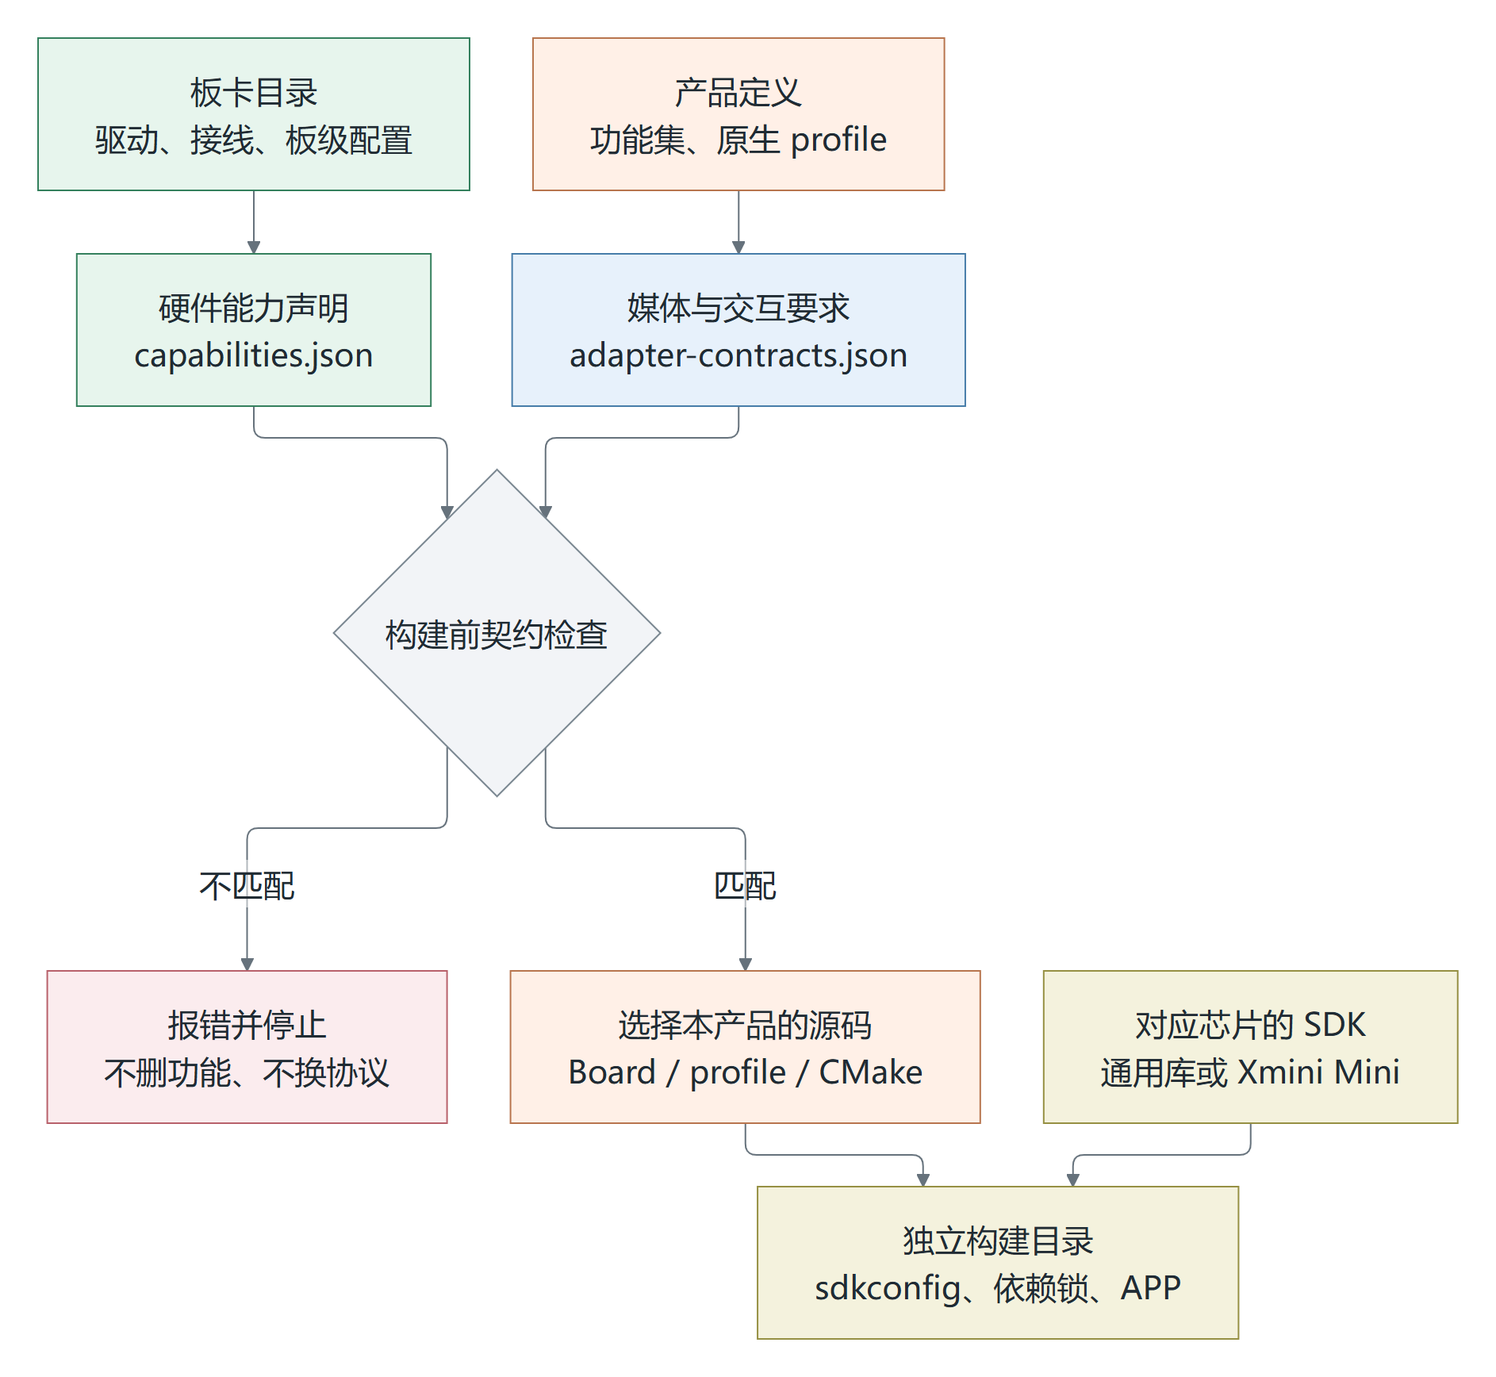
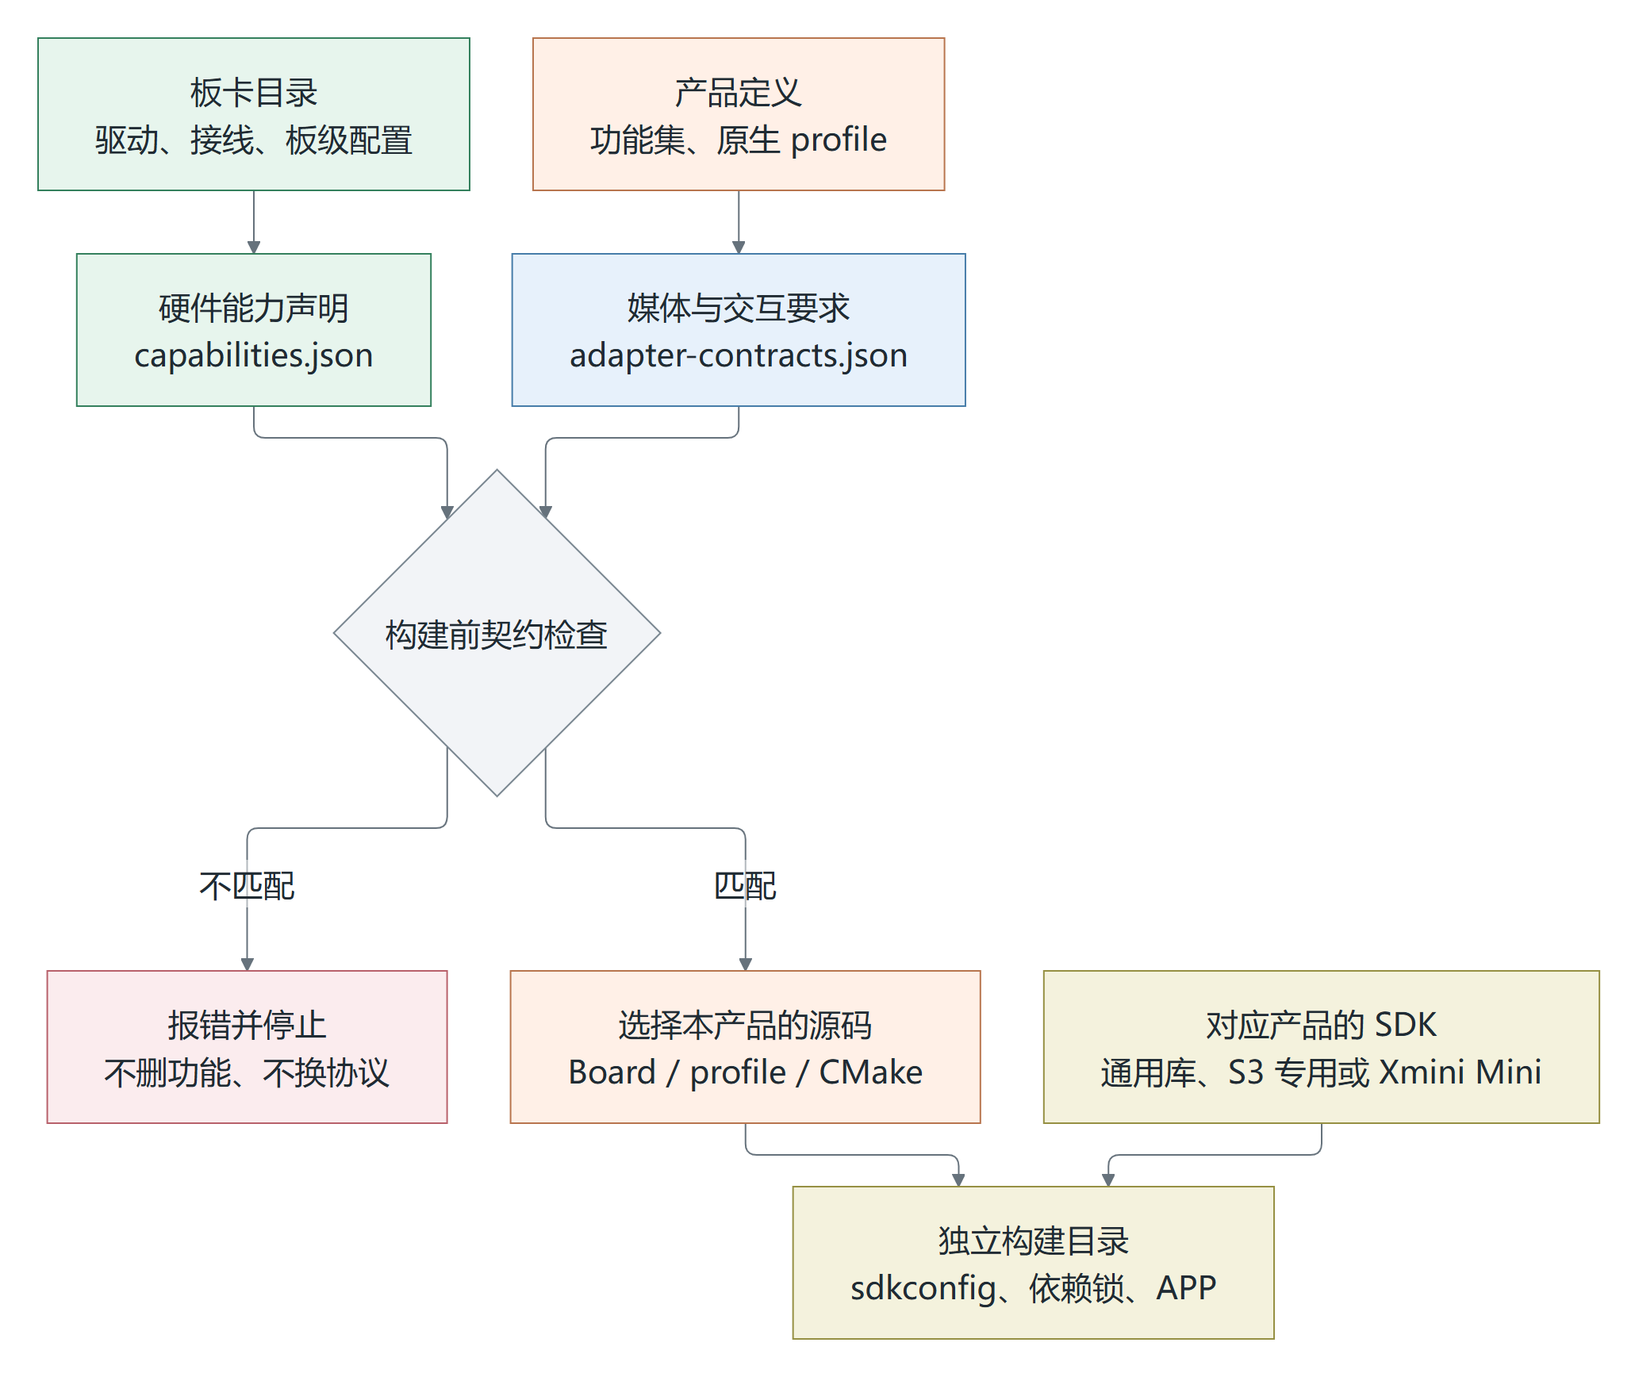
docs: improve multi-chip onboarding and board guidance

diff --git a/docs/第一次使用.md b/docs/第一次使用.md
@@ -1,0 +1,216 @@
+# 第一次使用小钛
+
+[返回首页](../README.md) · [选板](../README.md#选板) · [开发文档](架构开发指南.md)
+
+本指南配合 `codex/multi-chip-v2` 多芯片开发分支。使用公开固件时，还要核对该固件随包的板型和操作说明，不混用两个版本的配置、文件或验收结论。
+
+先完成一次对话或通话。暂时不用读代码，也不用记住 SDK、分区表这些名字。
+
+已经装好小钛的设备，可以直接从[连接 Wi-Fi](#4-连接-wi-fi)开始；已经联网并绑定，就去[试一个功能](#6-试一个功能)。
+
+| 现在到哪一步了 | 接着做什么 |
+| --- | --- |
+| 还没选好板子或固件 | [认准板子](#1-认准板子)，找到完全匹配的固件和说明 |
+| 设备已装好小钛，正在等配网 | [连接 Wi-Fi](#4-连接-wi-fi)，再[绑定设备](#5-绑定设备) |
+| 已绑定，但还没试过声音 | [试一个功能](#6-试一个功能)，分别听两个方向的声音 |
+| 某一步没有成功 | 看[排查表](#卡在哪一步就先查哪一步)，先保留现象，不急着重刷 |
+
+## 1. 认准板子
+
+查看板背面、包装或购买记录，确认完整型号、板卡版本和屏幕型号。只知道“ESP32-S3”还不够，它是芯片名称，不是完整板型。拍一张正反面照片留作核对，比凭外观猜更可靠。
+
+本统一开发版适配的六块板见[首页选板表](../README.md#选板)。特别留意：
+
+- 微雪 P4 **3.5 寸和 4.3 寸**不是同一板型，固件不能混用。
+- 本分支两块 P4 的默认配置最低为 rev3.1，不用于 rev1.x；烧录前仍要核对具体固件的适用范围。板上印的 PCB 版本与芯片修订是两回事。
+- M5Stack 要确认是 CoreS3-Lite，并核对所用固件要求的屏幕控制器；名称相近不代表固件通用。
+- Xmini 和 MZ28 都用 C3，但屏幕、音频与操作方式不同，也不能互刷。
+
+还没买板时，先核对是否有匹配的固件和说明，再决定硬件。不要只按“都是 S3”购买替代型号。
+
+**这一步完成的标志：你能写出板子的完整型号，并找到完全匹配的说明。**
+
+## 2. 准备设备和固件
+
+准备好开发板、一根能传数据的 USB 线、一台电脑、一部手机，以及能上网的 2.4 GHz Wi-Fi。只供电的充电线无法用于烧录。微信通话还需要手机上的微信和相应授权。
+
+固件是安装到开发板里的程序文件。这里分两种情况：
+
+| 你的目的 | 到哪里拿程序 |
+| --- | --- |
+| 先体验已发布的小钛 | 打开[公开固件目录](https://github.com/tangeai/xiaotai/blob/main/docs/downloads.md)，找到完全匹配的板型，再进入对应烧录指南 |
+| 验证这个统一开发版，或修改代码 | 按[本仓编译步骤](../README.md#从源码编译)生成固件；公开下载包不能代替本仓源码的验证 |
+
+公开固件与本统一开发版分别维护，板型列表、版本和构建命令可能不同。公开目录中的微雪 4.3 寸包不能用于本仓的 3.5 寸板；找不到对应型号时，先停在这里，向维护者确认，不试刷相近型号。
+
+下载页有 ZIP 和 BIN 时，按同一版本的指南选一种方式。不要把不同版本的文件凑在一起，也不要把源码 ZIP 当固件烧录。
+
+**这一步完成的标志：板型、固件版本、文件与烧录指南能一一对应。**
+
+## 3. 把固件装进开发板
+
+“烧录”就是把固件写进设备。具体连接哪个 USB 口、按哪个键、选择哪些文件，都按第 2 步找到的**本板、本版本指南**操作；这里不提供六板通用的烧录地址。
+
+1. 先备份需要保留的设备数据。写入完整镜像会覆盖原有 Wi-Fi、绑定等配置，不只是换一个应用。
+2. 用数据线连接电脑，在烧录工具中确认选中的是这块板。多块设备同时连接时，先核对串口再继续。
+3. 按指南添加文件和地址，等待写入及校验完成。进度条到 100% 不能代替成功校验。
+4. 退出烧录工具，让设备正常重启，观察屏幕或本板的语音、灯光提示。
+
+本仓单独生成的 `xiaotai.bin` 是应用文件，不是完整镜像，不能直接套用完整镜像的 `0x0` 地址。需要保留原配置时，必须先核对分区和配置兼容性，不能因为用了分文件包就默认安全。
+
+**这一步完成的标志：写入校验成功，设备也能正常启动。** 黑屏、反复重启或一直没有启动提示时，先查板型、文件和供电，不急着配网，更不要反复全片擦除。
+
+## 4. 连接 Wi-Fi
+
+“配网”就是告诉设备要连接哪个 Wi-Fi、密码是什么。已经联网的设备跳过这一步，不必为了跟教程走而清除配置。
+
+本仓的配网入口使用设备热点 `XiaoTai-XXXX` 和地址 `http://192.168.6.1`。`XXXX` 是每台设备不同的后缀；使用其他版本固件时，同时核对屏幕提示和配套说明。
+
+手机在这里要换一次网络：先连设备热点，把家中 Wi-Fi 交给设备；设备连上后，手机再恢复正常上网。
+
+```mermaid
+---
+config:
+  theme: neutral
+  themeVariables:
+    noteBkgColor: "#f4f5f2"
+    noteTextColor: "#333b32"
+    noteBorderColor: "#b6bcb3"
+  sequence:
+    diagramMarginX: 10
+    diagramMarginY: 12
+    mirrorActors: false
+    actorMargin: 24
+    width: 80
+    height: 40
+---
+sequenceDiagram
+    participant P as 手机
+    participant D as 小钛设备
+    P->>D: 连接 XiaoTai-XXXX
+    Note over P,D: 此时手机提示无互联网<br/>可以继续配网
+    P->>D: 打开 192.168.6.1
+    D-->>P: 返回配网页
+    P->>D: 提交家中 Wi-Fi 和密码
+    Note over P,D: 等设备连上家中 Wi-Fi<br/>手机再切回可上网的网络
+```
+
+图中是操作顺序；账号绑定需要外网，不能一直留在设备热点里操作。
+
+1. 等设备进入配网状态，用手机在 Wi-Fi 列表中连接它的 `XiaoTai-XXXX` 热点。
+2. 手机提示“无互联网”时，保持这次连接。此时是在设置设备，不是在用它上网。
+3. 配网页没有自动打开，就在浏览器地址栏输入 `http://192.168.6.1`。这个地址只在连着设备热点时使用。
+4. 选择家里或测试用的 2.4 GHz Wi-Fi，填入密码并提交，等待设备连接。
+5. 设备连上网后，让手机恢复正常上网：切回路由器 Wi-Fi 或移动网络，再去绑定。
+
+**这一步完成的标志：设备结束配网，开始获取绑定码；已绑定的设备恢复在线。** 热点页面能打开，只说明手机连到了设备，还不能说明设备已经连上外网。
+
+## 5. 绑定设备
+
+绑定是把设备加入你的账号，之后才能在手机或网页上找到它。连接 Wi-Fi 和绑定是两步，完成其中一步不会自动完成另一步。
+
+1. 读取设备显示或播报的六位绑定码。
+2. 按设备提示进入绑定入口：彩屏设备会给出网址；Xmini 提示在微信搜索“小钛”。无屏设备按该固件说明操作，MZ28 会播报绑定码。
+3. 在相应入口登录账号，添加设备并输入**当前这次**的绑定码。验证码过期就使用新码，不继续填旧码。
+4. 等待手机或网页中出现设备，确认设备本身也结束绑定提示。按界面要求补好设备名称，再发起通话。
+
+**这一步完成的标志：你的设备列表里出现了这台设备，并且设备在线。** 仅有绑定码、仅显示 Wi-Fi 已连接，都不等于已经可以通话。
+
+固件只负责设备这一端。在线功能还依赖绑定平台、TiRTC 实时音视频服务，以及所用的 AI 或微信服务。自己编译固件不会自动部署这些服务；接自建平台时，服务配置另见开发文档。
+
+遇到“已经连上了，为什么还不能通话”，先分清看到的是哪种状态：
+
+| 看到的状态 | 它能说明什么 | 还不能据此判断什么 |
+| --- | --- | --- |
+| Wi-Fi 已连接 | 设备连到了路由器 | 平台和音视频服务是否可达 |
+| 账号里有这台设备 | 账号有这台设备的绑定记录 | 设备此刻是否在线 |
+| 平台在线 | 平台连接已建立 | TiRTC 音视频服务是否就绪 |
+| RTC 就绪，或已经开始通话计时 | 对应的服务或会话状态已建立 | 麦克风、上传、下行和扬声器是否都正常 |
+
+这些是不同的检查项，不代表每块板都有同名提示。下一步用实际声音确认。开发者使用[诊断入口](本地诊断与AT指令.md)前，先核对支持的板型；本分支统一 AT 诊断构建目前仅接入立创 S3，不把该套指令当成六板通用接口。
+
+## 6. 试一个功能
+
+先试最简单的一项，成功后再试其他功能。按手上固件的实际支持范围操作，不要求每块板都完成下面所有项目。
+
+### AI 聊天
+
+在支持 AI 的设备上进入 AI 对话，说一句“你好，请介绍一下自己”。听到回复后再问一句，然后退出，观察设备能否回到待机。
+
+算这次体验成功，要同时满足：它听懂了你的话、回复能听清、结束后能正常待机。只看到“正在聆听”还不够。MZ28 的默认产品只有微信语音，不做这一项。
+
+### 手机和设备通话
+
+确认手机端已登录、设备已命名并在线。完成小程序要求的通话授权后，从设备页发起呼叫，在设备上接听，两边各说一句，再挂断。
+
+彩屏设备按来电界面接听。按本仓 MZ28 的当前按键逻辑，来电时短按 BOOT 接听，通话中双击挂断；其他固件以其按键说明为准，不拿一个板型的手势套所有板。
+
+```mermaid
+---
+config:
+  theme: neutral
+  themeVariables:
+    noteBkgColor: "#f4f5f2"
+    noteTextColor: "#333b32"
+    noteBorderColor: "#b6bcb3"
+  sequence:
+    diagramMarginX: 10
+    diagramMarginY: 12
+    mirrorActors: false
+    actorMargin: 24
+    width: 80
+    height: 40
+---
+sequenceDiagram
+    participant P as 手机端
+    participant D as 设备端
+    Note over P,D: 先完成呼叫和接听
+    P->>D: 手机说一句话
+    Note over D: 确认设备听得清
+    D->>P: 在设备旁说一句话
+    Note over P: 确认手机听得清
+    Note over P,D: 任一端挂断后<br/>两边都退出通话
+```
+
+箭头表示这次要检查的声音方向，不是网络直连。某一边无声时，记清方向，例如“手机听不到设备”，排查时就不会把采集和播放混在一起。
+
+算这次体验成功，要两边都能听到对方，挂断后也都退出通话。接通计时或音频计数增加，只能说明部分链路工作，不能代替实际听声音。
+
+完成其中一项，就已经走通了首次体验。之后再按本板支持范围检查其他功能；开发者按[验证范围](VALIDATION.md)补齐重复操作、业务切换、弱网和长时间运行。一次成功不代表这些项目也已通过。
+
+## 卡在哪一步，就先查哪一步
+
+| 看到的情况 | 先检查什么 |
+| --- | --- |
+| 电脑找不到设备 | USB 线能否传数据、是否插在本板的烧录口、串口是否被其他程序占用 |
+| 烧录后黑屏或反复重启 | 完整板型、屏幕版本、同版文件清单、写入地址和供电 |
+| 手机连热点后显示无互联网 | 配网阶段正常；保持连接并打开设备配网页，不用因此重刷 |
+| 打不开配网页 | 手机是否仍连着这台设备的热点，地址是否为 `http://192.168.6.1` |
+| 有绑定码，但添加不了设备 | 手机是否已恢复上网，是否填了本台设备尚未过期的码 |
+| 手机里有设备，但显示离线 | 先看设备当前网络和启动状态；有历史绑定记录不等于当前在线 |
+| 显示正在聆听，但没有回复 | 记下发生时间、屏幕状态和说了什么，分别查采集、上传和服务回复；先保留现场 |
+| 能接通，某一边听不到声音 | 写清“手机听不到设备”还是“设备听不到手机”，再检查对应方向，不笼统写成“没声音” |
+
+需要帮忙时，提供板型、固件版本、卡住的步骤、原本期待的结果、实际提示和发生时间。照片或日志可以补充，但先遮住绑定码、Wi-Fi 密码、账号凭据和设备密钥。立创 S3 的串口检查方法见[本地诊断](本地诊断与AT指令.md)，其他板型不要照抄这套指令。
+
+<details>
+<summary>几个常见词，用到时再看</summary>
+
+| 词 | 可以怎样理解 |
+| --- | --- |
+| 固件 | 安装在开发板里的程序 |
+| 编译 | 从源码生成设备能运行的程序文件 |
+| 烧录 | 把这些程序文件写进设备 |
+| 配网 | 给设备设置 Wi-Fi 名称和密码 |
+| 绑定 | 把设备加入你的账号 |
+| ESP-IDF | 乐鑫提供的开发工具，自己编译 ESP32 程序时需要 |
+| H5 | 网页端，不是另一种开发板 |
+| RTC / TiRTC | 实时音视频通信，以及本项目使用的相关软件开发包与服务 |
+
+</details>
+
+## 想继续开发
+
+先保留一份能运行的固件和它的版本记录，再从[架构开发指南](架构开发指南.md)选择加功能、接硬件或调整配置的路径。这里不要求你一口气学完所有模块。
+
+本仓当前实测范围和待测项见[验证状态](VALIDATION.md)。本指南说明操作流程，不表示六块板已经完成全部真机验收。

diff --git a/docs/MULTI_CHIP.md b/docs/MULTI_CHIP.md
@@ -1,8 +1,10 @@
 # 多芯片适配指南
 
+[返回首页](../README.md) · [第一次使用](第一次使用.md) · [架构开发指南](架构开发指南.md)
+
 从这里开始，先选实际板型，再选构建环境。**同一套源码不等于同一份固件**：板型、分区、SDK、摄像头、显示和联网协处理器仍有各自的约束。
 
-- 已有板卡，只想按原流程使用或维护独立工程：看 [ESP32 main 使用引导](https://github.com/tangeai/xiaotai-esp32/tree/main)。
+- 先体验公开固件：看[第一次使用](第一次使用.md)，再按[公开下载目录](https://github.com/tangeai/xiaotai/blob/main/docs/downloads.md)选择完全匹配的板型。公开固件与本分支分别维护，不能互相替代验证。
 - 要在统一工程里维护多块板，或接入新板：留在 `codex/multi-chip-v2`。分支名区分架构路线，不代表已发布固件 `2.0.0`。
 
 ## 选板
@@ -17,6 +19,8 @@
 | MZ28-AI-PPD | ESP32-C3 | `mz28-ai-ppd` | 6.0.2 |
 
 表中是已登记的板型和构建入口，不是所有同芯片板卡的兼容承诺。固件分别保留屏幕或无屏交互，以及该板的媒体和联网能力。
+
+默认功能差异见[首页选板表](../README.md#选板)。两块 P4 的默认配置最低为 rev3.1；微雪 3.5 寸不能使用公开目录中的 4.3 寸包。Xmini 为 16 MB，MZ28 为 8 MB，同为 C3 也不能互刷。
 
 ## 构建
 
@@ -35,7 +39,7 @@ python scripts/build.py lckfb/szpi-esp32s3
 
 其他板型换成表中的参数。不要复制旧分支的 `sdkconfig`、SDK 库或构建缓存。配置变更时按工具提示使用 `--fresh-config`；`--stage sdk-check` 只做 SDK 链接探针，不产出可交付的整机固件。构建命令不会烧录或发布。
 
[2 lines of base64/hex data omitted]
 
 ## 接入新板
 
@@ -45,4 +49,4 @@ python scripts/build.py lckfb/szpi-esp32s3
 
 ## 验证范围
 
-当前以 V0.1.0 为起点，版本变化见[版本记录](../CHANGELOG.md)。编译与运行分别按[验证范围和已知限制](VALIDATION.md)判断。当前未完成六板全功能真机验收；新增板型、随意裁剪功能以及跨板固件互换不属于当前承诺。
+从[版本记录](../CHANGELOG.md)看主要变化，从[验证范围与已知限制](VALIDATION.md)核对各板的构建和真机覆盖。按各板已登记的产品配置构建，固件不跨板使用。

diff --git a/docs/assets/home/SOURCES.md b/docs/assets/home/SOURCES.md
@@ -1,0 +1,16 @@
+# 首页与新手指南配图
+
+- [小钛功能概览动图](xiaotai-overview.gif)由项目维护者提供，保留原始 GIF 字节与动画，尺寸 750 × 360，共 60 帧。图示是项目的功能范围，不代表每块板都支持全部功能，也不作为本分支固件的验收依据。
+- [立创 S3 实拍](lckfb-s3-device-front.webp)与[微雪 P4 实拍](waveshare-p4-device-front.webp)沿用项目既有的[设备照片](https://github.com/tangeai/xiaotai-esp32/tree/main/docs/images/boards)，保留原始 WebP 字节。照片用于对照外观，板型与固件还需分别核对。
+- 首页复用原有[编译流程图](../architecture/07-build.png)，不另画一套流程。架构指南的九张技术图及可编辑源码见[配图说明](../architecture/配图说明.md)，内容正确的图保留，只在事实变化时同步修改。
+- [新手指南](../../第一次使用.md)的配网和通话图直接写在 Markdown 的 `mermaid` 代码块中。图中文字、节点和连线可直接编辑，不使用生成式插画，也不模拟真实界面。
+
+## 内容依据
+
+六板默认功能对照 [product-contracts.json](../../../config/product-contracts.json)，屏幕逻辑尺寸与硬件条件分别对照各板 `capabilities.json` 和 `sdkconfig.xiaotai`。默认功能与真机验证状态分开记录。
+
+配网时序对照本分支 `wifi_manager` 与 Xmini/MZ28 的 `wifi_provisioning` 实现：热点为 `XiaoTai-XXXX`，配网页为 `http://192.168.6.1`。手机先连设备热点，设备联网后手机再恢复上网，随后进行账号绑定。
+
+通话图用于分别检查声音的两个方向和挂断结果。箭头表示声音方向，不表示网络直连或当前六板已全部通过验收。通过条件仍需实际听音，不以在线标志或计数代替。
+
+GitHub 支持 [Mermaid 技术图](https://docs.github.com/en/get-started/writing-on-github/working-with-advanced-formatting/creating-diagrams)。其他 Markdown 阅读器需要启用相应支持；不支持时仍可按图旁的文字步骤操作。

diff --git a/docs/架构开发指南.md b/docs/架构开发指南.md
@@ -1,5 +1,9 @@
 # 小钛架构开发指南
 
+本文针对 `codex/multi-chip-v2` 多芯片开发分支，文中的路径均相对本分支根目录。
+
+[返回首页](../README.md) · [第一次使用](第一次使用.md) · [板型与构建参数](MULTI_CHIP.md)
+
 要改功能，先找负责的模块；要换板，先核对硬件和 SDK；要编译已有产品，直接看配置与编译一节。这里把对应文件、操作步骤和容易踩到的问题放在一起。
 
 [加功能](#2-在开发版中加入新功能) · [做适配](#3-做硬件和交互适配) · [选配置和编译](#4-选择配置和编译)
@@ -13,6 +17,8 @@
 ![图 1：板卡能力和产品要求先通过契约检查，再选择源码与 SDK，输出独立固件](assets/architecture/01-repository.png)
 
 图 1：当前构建流程。媒体和交互的实际源码仍由 Board/profile/CMake 选入，JSON 中的适配器名称只描述要求。
+
+SDK 选择也按产品核对：立创 S3 使用 `szpi-http` 专用变体，Xmini 使用 `xmini-mini`，其余产品使用对应芯片的通用库；不能只按芯片名称拿一份库覆盖所有产品。
 
 板卡负责接线和物理资源，媒体层处理音视频，交互层接收操作并给出反馈。业务代码尽量通过这些接口工作，少依赖“当前是哪块板”的判断。
 
